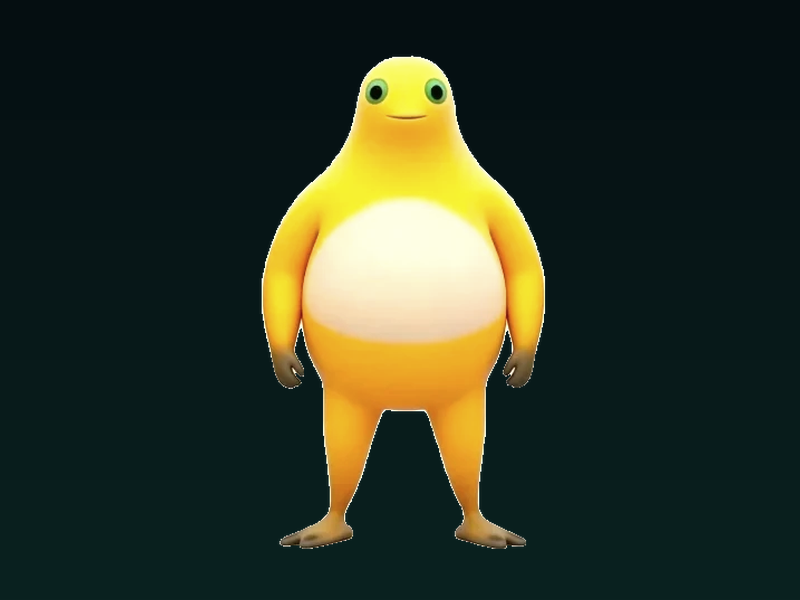
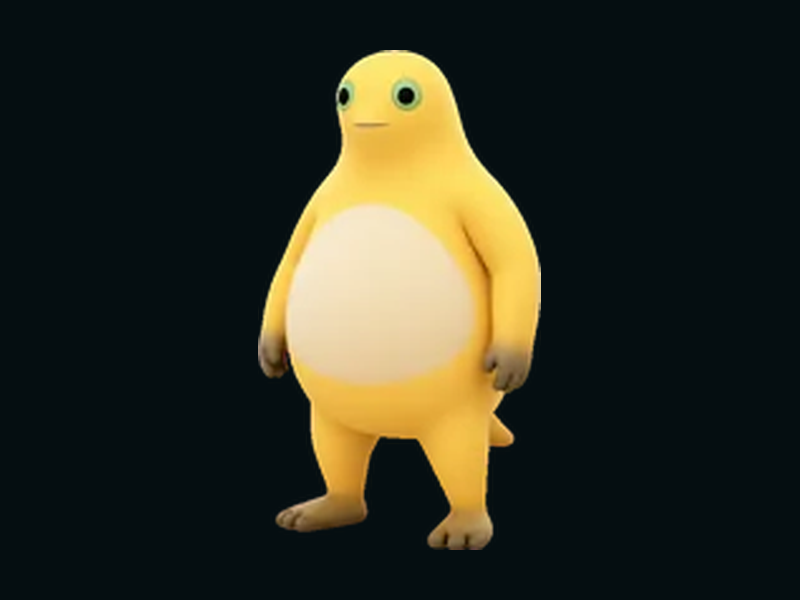
add beckon action and chubby classic idle

Changed region(s): [[0.3125, 0.06, 0.6875, 0.93]]

diff --git a/src/assets/pets/index.ts b/src/assets/pets/index.ts
@@ -23,6 +23,15 @@ const CLASSIC_LAUGH_FRAMES = Object.keys(CLASSIC_LAUGH_MODULES)
   .map((key) => CLASSIC_LAUGH_MODULES[key]);
 const CLASSIC_HAPPY_FRAMES = CLASSIC_LAUGH_FRAMES;
 
+const CLASSIC_IDLE_MODULES = import.meta.glob(
+  "./classic/idle-chubby/*.png",
+  { eager: true, import: "default" },
+) as Record<string, string>;
+
+const CLASSIC_IDLE_FRAMES = Object.keys(CLASSIC_IDLE_MODULES)
+  .sort()
+  .map((key) => CLASSIC_IDLE_MODULES[key]);
+
 const CLASSIC_ACTION_MODULES = import.meta.glob(
   "./classic/actions/*/*.png",
   { eager: true, import: "default" },
@@ -39,10 +48,10 @@ for (const key of Object.keys(CLASSIC_ACTION_MODULES).sort()) {
   );
 }
 
-// The adult action stack is shared by all three art forms. ASCII has no
-// separate action drawings yet, so it reuses the closest existing pose.
-// Never point a left-click action at happy/click: those frames are the laugh,
-// and the laugh must only be reachable through right-click.
+// The adult action stack is shared by all three art forms. Most ASCII actions
+// still reuse the closest existing pose; `beckon` has its own three-frame
+// conversion. Never point a left-click action at happy/click: those frames are
+// the laugh, and the laugh must only be reachable through right-click.
 const ADULT_ASCII_FRAMES: FrameMap = {
   ...CYBER_NAIWA_FRAMES,
   run: CYBER_NAIWA_FRAMES.walk,
@@ -117,7 +126,9 @@ export const PET_SKINS: readonly PetSkin[] = [
     credit:
       "Original Naiwa artwork; adult laugh frames from liaosongjie/Codex-Voice-Input (MIT); action frames from Nailong-Studio/NaiWa-Wallpaper",
     frames: {
-      idle: [adultIdle],
+      idle:
+        CLASSIC_IDLE_FRAMES.length > 0 ? CLASSIC_IDLE_FRAMES : [adultIdle],
+      beckon: CLASSIC_ACTION_FRAMES.beckon ?? [adultIdle],
       walk: CLASSIC_ACTION_FRAMES.walk ?? [adultIdle],
       run: CLASSIC_ACTION_FRAMES.run ?? [adultIdle],
       look: CLASSIC_ACTION_FRAMES.look ?? [adultIdle],
@@ -138,6 +149,8 @@ export const PET_SKINS: readonly PetSkin[] = [
     },
     frameIntervalMs: 164,
     frameIntervalMsByState: {
+      idle: 1200,
+      beckon: 220,
       walk: 140,
       run: 90,
       look: 220,

diff --git a/src/assets/pets/cyber-naiwa/frames.ts b/src/assets/pets/cyber-naiwa/frames.ts
@@ -74,14 +74,15 @@ export function toneForChar(char: string): AsciiTone {
 }
 
 // Adult laugh: 25 frames at 164 ms ≈ 4.10 s, matching the 4.11 s laugh audio.
-// New adult actions use the closest existing ASCII pose but keep their own
-// cadence, so run reads faster than walk and crouch/stance is slower.
+// Most new adult actions reuse the closest existing ASCII pose but keep their
+// own cadence; `beckon` has a dedicated three-frame wave.
 export const FRAME_INTERVAL_MS: Record<PetAnimationState, number> = {
   idle: 1200,
   walk: 260,
   happy: 164,
   click: 164,
   wave: 500,
+  beckon: 350,
   run: 130,
   look: 300,
   think: 350,
@@ -97,6 +98,7 @@ export const BABY_FRAME_INTERVAL_MS: Record<PetAnimationState, number> = {
   happy: 320,
   click: 180,
   wave: 500,
+  beckon: 350,
   run: 260,
   look: 500,
   think: 500,

diff --git a/src/i18n/strings.ts b/src/i18n/strings.ts
@@ -112,6 +112,7 @@ const ZH: UiStrings = {
       happy: "赛博奶蛙，开心",
       click: "赛博奶蛙，被点击",
       wave: "赛博奶蛙，扎马步",
+      beckon: "赛博奶蛙，招手",
       run: "赛博奶蛙，奔跑",
       look: "赛博奶蛙，张望",
       think: "赛博奶蛙，思考",
@@ -189,6 +190,7 @@ const EN: UiStrings = {
       happy: "Cyber Naiwa, happy",
       click: "Cyber Naiwa, clicked",
       wave: "Cyber Naiwa, horse stance",
+      beckon: "Cyber Naiwa, beckoning",
       run: "Cyber Naiwa, running",
       look: "Cyber Naiwa, looking around",
       think: "Cyber Naiwa, thinking",

diff --git a/src/hooks/usePetState.ts b/src/hooks/usePetState.ts
@@ -35,6 +35,7 @@ export const BABY_REACTION_FLOW_MS = CLICK_STATE_MS + BABY_HAPPY_STATE_MS;
 export const ADULT_ACTION_STACK = [
   "idle",
   "wave",
+  "beckon",
   "walk",
   "run",
   "look",
@@ -45,6 +46,7 @@ export const ADULT_ACTION_STACK = [
 
 const ACTION_DURATION_MS: Partial<Record<PetAnimationState, number>> = {
   wave: 2400,
+  beckon: 1800,
   walk: 2200,
   run: 1500,
   look: 1900,

diff --git a/src/types/pet.ts b/src/types/pet.ts
@@ -4,6 +4,7 @@ export const PET_ANIMATION_STATES = [
   "happy",
   "click",
   "wave",
+  "beckon",
   "run",
   "look",
   "think",
@@ -74,6 +75,7 @@ export const PET_STATE_LABELS: Record<PetAnimationState, string> = {
   happy: "HAPPY",
   click: "CLICK",
   wave: "STANCE",
+  beckon: "BECKON",
   run: "RUN",
   look: "LOOK",
   think: "THINK",

diff --git a/DEVELOPMENT.md b/DEVELOPMENT.md
@@ -99,17 +99,17 @@ CyberNaiwa/
 - `usePetState` 持有唯一状态，避免动画互相冲突。
 - `usePetInteraction`：pointerdown 只记录起点；移动 ≥5px 才调用 `startDragging()`，避免原生拖拽吞掉点击；pointerup 且未拖动才算一次点击。
 - 命中判定：ASCII 必须命中 `.pet-ascii [class^="tone-"]:not(.tone-empty)`，图片必须按 alpha 命中（>16）；透明格/透明像素仍是拖动区，但不触发动作、语音或字幕。
-- **成年左键**：`advanceAction()` 沿 `ADULT_ACTION_STACK` 前进：`idle → wave（扎马步）→ walk → run → look → think → clap → crouch → idle`。每档有独立持续时间，动作结束回 idle，但索引保留，所以流程结束后连续点击能走完整套。左键同时 `speak("meme")` 选一条安迪类台词；`Pet.tsx` 用 `flowLock` 锁住整个流程，锁定时常为 `max(actionDuration, voiceDuration) + 50ms`，期间左键/右键一律忽略；只有动作和语音都结束后，下一次点击才进入下一档。`playNaiwaVoice()` 返回本次语音时长，baby 按 1.35× 折算；`eat` 帧保留在素材里，但因其张嘴仰头太像大笑，不接入左键动作栈。
+- **成年左键**：`advanceAction()` 沿 `ADULT_ACTION_STACK` 前进：`idle → wave（扎马步）→ beckon（招手）→ walk → run → look → think → clap → crouch → idle`。每档有独立持续时间，动作结束回 idle，但索引保留，所以流程结束后连续点击能走完整套。左键同时 `speak("meme")` 选一条安迪类台词；`Pet.tsx` 用 `flowLock` 锁住整个流程，锁定时常为 `max(actionDuration, voiceDuration) + 50ms`，期间左键/右键一律忽略；只有动作和语音都结束后，下一次点击才进入下一档。`playNaiwaVoice()` 返回本次语音时长，baby 按 1.35× 折算；`eat` 帧保留在素材里，但因其张嘴仰头太像大笑，不接入左键动作栈。
 - **成年右键**：`interact("laugh")`，`click` 380ms → `happy` 3730ms → `idle`，合计 4.11 秒，和 `naiwa-laugh-long.wav` 对齐；不再打开原生菜单。**大笑只属于右键**，左键动作栈不含 `happy`/`click`。Ctrl/⌘ + 右键打开原生菜单；中键（按下滚轮）打开设置；鼠标悬停在桌宠上时右上角才显示齿轮按钮；托盘入口保留。
 - **幼体左键**：`interact("meme")`，`click` 380ms → `happy` 1100ms → `idle`；没有大笑语音，右键仍是原生菜单。幼体同样使用 `flowLock`（动作 1480ms 与语音时长取最大值），流程中不响应下一次点击；幼体的动作栈与成年完全分开。
-- **空闲自动行为**：成年 idle 9–16 秒后只自动进入 `wave`（扎马步）2.4 秒，再回 idle；walk/run/look/think/clap/crouch 不会自动播放。幼体保持 7–14 秒随机 walk/wave 的独立行为。
+- **空闲自动行为**：成年 idle 9–16 秒后只自动进入 `wave`（扎马步）2.4 秒，再回 idle；beckon/walk/run/look/think/clap/crouch 不会自动播放。幼体保持 7–14 秒随机 walk/wave 的独立行为。
 - 动画关闭时强制回到 idle，并取消进行中的状态定时器；点击仍能切换动作/触发大笑，但只显示静态首帧。
 - `PetAnimation` 只在当前状态内轮播帧，切状态立即重置到第 0 帧；缺少某状态的帧时回退到 `idle`，不会渲染空帧。
-- 成年：Idle / Walk 使用站立正面（第二帧闭眼）；Click / Happy 使用 Codex Voice Input 的 25 帧大笑（手放肚子 → 仰头 → 抱头 → 回落），只由右键触发；Wave 使用官方挥手/扎马步。新动作的经典原画来自 Nailong-Studio 的 `pet/` 逐帧；ASCII 端暂时复用最接近的现有姿态：run=walk、look/think=idle、clap=wave、eat=idle、crouch=wave，**绝不把 clap/eat 指到 happy/click 大笑帧**。
+- 成年：经典 Idle 使用 `classic/idle-chubby/00–02.png` 三帧圆胖待机（`待机-06/01/03`，首帧最正面，1200ms/帧）；Walk 使用同一画风的 Nailong 走路帧；Click / Happy 使用 Codex Voice Input 的 25 帧大笑（手放肚子 → 仰头 → 抱头 → 回落），只由右键触发；Wave（扎马步）使用 `adult-wave.png`，Beckon（招手）使用 `classic/actions/beckon/00–02.png`。新动作的经典原画来自 Nailong-Studio 的 `pet/` 逐帧；ASCII 端 `beckon` 有独立 3 帧，其余新增动作复用最接近的现有姿态：run=walk、look/think=idle、clap=wave、eat=idle、crouch=wave，**绝不把 clap/eat 指到 happy/click 大笑帧**。
 - 幼体：Idle / Walk 使用幼体正面；Happy / Click 使用幼体素材右一叉腰；Wave 使用幼体素材中间抬手。幼体不使用成年大笑、挥手或新动作素材。
 - Sleep 与 Sad 状态均已移除（用户反馈睡觉和伤心界面不好看）；不再生成/播放 sleep 或 sad 帧。
-- ASCII 帧间隔：成年 idle 1200ms、walk 260ms、happy/click 164ms、wave 500ms、run 130ms、look 300ms、think 350ms、clap 160ms、eat 260ms、crouch 500ms；幼体 idle 1200ms、walk 260ms、happy 320ms、click 180ms、wave 500ms。
-- 奶家经典图片帧有独立间隔：walk 140ms、run 90ms、look 220ms、think 260ms、clap 110ms、eat 180ms、crouch 160ms、happy/click 164ms；单帧 idle/wave 不轮播。25×164ms ≈ 4.10s，和 4.11s 音频对齐。
+- ASCII 帧间隔：成年 idle 1200ms、walk 260ms、happy/click 164ms、wave 500ms、beckon 350ms、run 130ms、look 300ms、think 350ms、clap 160ms、eat 260ms、crouch 500ms；幼体 idle 1200ms、walk 260ms、happy 320ms、click 180ms、wave 500ms、beckon 350ms。
+- 奶家经典图片帧有独立间隔：idle 1200ms、beckon 220ms、walk 140ms、run 90ms、look 220ms、think 260ms、clap 110ms、eat 180ms、crouch 160ms、happy/click 164ms；wave 单帧不轮播，idle 3 帧循环。25×164ms ≈ 4.10s，和 4.11s 音频对齐。
 
 ### 点击语音
 
@@ -122,11 +122,11 @@ CyberNaiwa/
 
 ### ASCII 渲染
 
-- 原色赛博帧在 `naiwa-frames.json` / `naiwa-baby-frames.json`：112 列 × 70 行；量子赛博帧在 `naiwa-cyber-frames.json` / `naiwa-cyber-baby-frames.json`：128 列 × 80 行。用 `.` 表示透明格。帧由官方设计资料库的成年 / 幼体 / 大笑 / 挥手参考图逐像素映射到字符 tone；仓库不包含参考图片本身。
+- 原色赛博帧在 `naiwa-frames.json` / `naiwa-baby-frames.json`：112 列 × 70 行；量子赛博帧在 `naiwa-cyber-frames.json` / `naiwa-cyber-baby-frames.json`：128 列 × 80 行。用 `.` 表示透明格。帧由官方设计资料库的成年 / 幼体 / 大笑 / 挥手参考图逐像素映射到字符 tone；仓库不包含参考图片本身。成年 `beckon` 3 帧来自 Nailong-Studio 的 `招手` MIT 素材（和 walk/run 同库），不是官方设计资料库。
 - 幼体挥手源图裁切框从 `X=365/W=270` 改为 `X=310/W=285`：原框正好从 V 字手中间切过，导致手指缺失；新框完整包住中间幼体的抬手，112×70 与 128×80 两套网格都已重新采样。
-- `PetAnimation` 根据 `settings.palette` 选择帧组：`original` 走 `frames` / `babyFrames`，`cyber` 走 `cyberFrames` / `cyberBabyFrames`，`classic` 直接切到图片皮肤 `naiwa-classic`。ASCII JSON 仍只有 5 个基础动作的帧；`index.ts` 把 run/look/think/clap/eat/crouch 映射到最接近的现有姿态（run=walk、look/think=idle、clap=wave、eat=idle、crouch=wave），并让 HUD、语音、时长保持独立。幼体不使用新动作；左键动作栈永远不引用 happy/click。
+- `PetAnimation` 根据 `settings.palette` 选择帧组：`original` 走 `frames` / `babyFrames`，`cyber` 走 `cyberFrames` / `cyberBabyFrames`，`classic` 直接切到图片皮肤 `naiwa-classic`。ASCII JSON 现在有 6 个基础动作的帧（idle/walk/happy/click/wave/beckon）；`index.ts` 把 run/look/think/clap/eat/crouch 映射到最接近的现有姿态（run=walk、look/think=idle、clap=wave、eat=idle、crouch=wave），`beckon` 使用自己的 3 帧，并让 HUD、语音、时长保持独立。幼体不使用新动作；左键动作栈永远不引用 happy/click。
 - 成年 ASCII `wave` 不再从旧的裁切帧补边距，而是从经典 `adult-wave.png` 固定取景重采样：`FixedSide 430`、`CenterX 148`、`CenterY 206`，原色 112×70、量子 128×80 各一套；膝下小腿的 `|` 色调回金色 `%`，脚掌保留棕色 `|`，所以左膝到脚掌是连续轮廓。脚本是 `_qa/convert-naiwa.ps1` 和 `_qa/patch-ascii-wave-knee.py`。
-- 奶家经典图片皮肤：成年 idle 默认用**正面** `adult-idle-aligned.png`（官方正面站立，×1.14 亮度、×0.78 色彩对齐动作帧）；`classic/idle/00–05.png` 是 Nailong 的 3/4 侧身待机备选，会斜着站，不作为默认。wave/扎马步用 `adult-wave.png`，happy/click 用 `laugh-hd/000–024.webp`（524×720，164ms/帧，25×164≈4.10s，对齐 4.11s 音频；来自 1080×1474 原片 6.5–8.75s 抽 25 帧，去白底/地面阴影/胯下白块，3% padding，Lanczos 缩到 720 高，不锐化）；walk/run/look/think/clap/crouch 用 `classic/actions/<state>/` 的逐帧 PNG，`eat` 保留但不接入左键栈。动作帧统一补齐到 180×210 画布、底部对齐到 y=204（6px 底边距），所以脚和膝盖不会被裁。幼体 idle/walk、happy/click、wave 各用一张原画。`laugh/` 保留 180×180 的 MIT 原始帧，`laugh-cropped/` 是紧裁中间帧，`laugh-hires/` 是 648×888 的 6× 回退放大版；当前产品路径是 `laugh-hd`。
+- 奶家经典图片皮肤：成年 idle 默认用 `classic/idle-chubby/00–02.png`（3 帧，来自 Nailong `待机-06/01/03`，180×210、底部 y=204、1200ms/帧，首帧最正面，和走路/跑步同一圆胖画风）；`adult-idle-aligned.png` 保留为高瘦正面备选，`classic/idle/00–05.png` 仍是 3/4 侧身备选。wave/扎马步用 `adult-wave.png`，beckon/招手用 `classic/actions/beckon/00–02.png`（来自 `招手-01/02/04`，220ms/帧），happy/click 用 `laugh-hd/000–024.webp`（524×720，164ms/帧，25×164≈4.10s，对齐 4.11s 音频；来自 1080×1474 原片 6.5–8.75s 抽 25 帧，去白底/地面阴影/胯下白块，3% padding，Lanczos 缩到 720 高，不锐化）；walk/run/look/think/clap/beckon/crouch 用 `classic/actions/<state>/` 的逐帧 PNG，`eat` 保留但不接入左键栈。动作帧统一补齐到 180×210 画布、底部对齐到 y=204（6px 底边距），所以脚和膝盖不会被裁。幼体 idle/walk、happy/click、wave 各用一张原画。`laugh/` 保留 180×180 的 MIT 原始帧，`laugh-cropped/` 是紧裁中间帧，`laugh-hires/` 是 648×888 的 6× 回退放大版；当前产品路径是 `laugh-hd`。
 - HUD 渲染规则：`Pet.tsx` 只在 `settings.palette !== "classic"` 时渲染 `NAIWA//STATE`；原色赛博用暖黄 `rgba(255,216,77,0.62)` + 黄点，量子赛博沿用蓝色 `rgba(126,249,255,0.6)` + 青点，奶家经典不渲染 HUD。设置页不再有「桌宠标签」开关，`hudEnabled` 从 `PetSettings` 移除。
 - 图片尺寸用 `height: 78vh; width: auto`，不是 `max-height`：原图小于窗口时也会放大。图片底部对齐 stage 内容底边，保留 22px 底部 padding；成年待机和动作的角色高约 280px，47 张动作帧的 alpha 最外像素距画布边缘至少 6px，映射到窗口后脚底距底边约 30px。
 - 奶家经典每个动作的帧间隔由 `frameIntervalMsByState` 控制；happy/click 使用 164ms，和 4.11s 大笑音频对齐。
@@ -280,4 +280,5 @@ cargo check --manifest-path src-tauri/Cargo.toml
 - 2026-11-16 remove the adult left-click debounce and slow the adult laugh to 164 ms/frame; extend happy to 3730 ms so click + happy = 4.11 s, matching the laugh WAV; pad the ASCII wave frames by a 2-cell transparent border so the horse-stance knees/feet are not sliced.
 - 2026-11-16 replace per-click interruption with a full-flow lock (user clarified): each adult/baby action holds a `flowLock` for `max(action duration, voice duration) + 50 ms`; clicks during the flow are ignored and the next click only advances after both animation and voice end. `playNaiwaVoice` now returns the actual duration, and `advanceAction` returns the action duration.
 - 2026-11-16 regenerate the adult ASCII `wave` from `classic/adult-wave.png` with a fixed 430 px crop centred at (148,206) for both the 112×70 and 128×80 sets, replacing the 2-cell padding; promote the shadowed shin cells from `|` to `%` and keep `|` on the feet so the left knee/shin read as one continuous leg. Verified both palettes in-app (`_qa/art/ascii-wave-knee-patched-app-dark.png`, `_qa/art/ascii-cyber-wave-knee-patched-app-dark.png`).
+- 2026-11-16 replace the classic idle with the three-frame `idle-chubby` set from the Nailong `待机-06/01/03` art (front-facing first frame, 180×210, 6 px bottom, 1200 ms) and add the adult `beckon` action (three `招手-01/02/04` frames, 220 ms classic / 350 ms ASCII, 1800 ms flow) right after `wave`; generate dedicated 112×70/128×80 beckon grids, restore misread `_` limb pixels to `|`, and keep the action out of the baby stack.
 - 2026-11-16 bump to 0.2.1 and replace `docs/settings.png` with the 赛博奶蛙 settings screenshot (原色模式/量子模式, no sleep copy, version 0.2.1).

diff --git a/README.en.md b/README.en.md
@@ -12,7 +12,7 @@ Cyber Naiwa (赛博奶蛙) is a cross-platform desktop pet built around 奶蛙 (
 - Left-drag to move; adult left-click cycles actions, right-click laughs
 - Middle-click opens Settings; Ctrl/⌘ + right-click opens the native menu
 - Actions and laughs play the matching Naiwa voice line, with a mute switch in Settings
-- Adult actions: stand, horse stance, walk, run, look around, think, clap, crouch
+- Adult actions: stand, horse stance, beckon, walk, run, look around, think, clap, crouch
 - Three forms: Original Cyber / Quantum Cyber (ASCII) and Naiwa Classic (original artwork)
 - Adult and baby Naiwa, with warm Original or blue-black Quantum colourways
 - Chinese app UI; English documentation in `README.en.md`
@@ -50,9 +50,9 @@ Naiwa Classic uses the original artwork with no ASCII conversion:
 
 | Mode | Options |
 | --- | --- |
-| Growth stage | Adult (tall pear) / Baby (short, round, big-headed, tiny limbs) |
+| Growth stage | Adult (chubby, short-legged) / Baby (short, round, big-headed, tiny limbs) |
 | Form | Original Cyber (warm yellow + cream + olive, 112×70) / Quantum Cyber (blue-black + cyan terminal, 128×80) / Naiwa Classic (original artwork, transparent background) |
-| Actions | Adult: stand, horse stance, walk, run, look around, think, clap, crouch; baby: idle, walk, happy, raise-hand — the two stacks are separate |
+| Actions | Adult: stand, horse stance, beckon, walk, run, look around, think, clap, crouch; baby: idle, walk, happy, raise-hand — the two stacks are separate |
 
 Baby preview:
 
@@ -137,9 +137,9 @@ Two keys live in that file: `settings` (always-on-top, scale, animation, sound, 
 
 ## Character art
 
-The default `cyber-naiwa` skin stores Original Cyber adult/baby frames in `naiwa-frames.json` and `naiwa-baby-frames.json` (112×70), and Quantum Cyber adult/baby frames in `naiwa-cyber-frames.json` and `naiwa-cyber-baby-frames.json` (128×80). Each set covers five base poses; adult happy/click use 25 frames each, other base states use two, and the baby uses two per state. The extra adult actions (run/look/think/clap/eat/crouch) are registered in `index.ts` as aliases of the closest base pose, with their own HUD labels, timing and durations. The adult wave grids are resampled from `classic/adult-wave.png` with a fixed 430 px crop centred at (148,206) for both 112×70 and 128×80, so the knees and feet no longer touch the grid edge; the shadowed shins are promoted from `|` to `%` while the feet stay brown, keeping the left knee-to-foot silhouette continuous. `frames.ts` maps characters to colour tones and declares frame timing. The 25 adult laugh frames come from [liaosongjie/Codex-Voice-Input](https://github.com/liaosongjie/Codex-Voice-Input)'s MIT animation frames (fixed-crop conversion to ASCII); the other grids were pixel-mapped from the official design database's adult, juvenile, laugh, and wave references. No ASCII reference image files themselves are shipped in the repo. The app icon is taken from the baby's Original Cyber ASCII idle frame instead of being drawn separately.
+The default `cyber-naiwa` skin stores Original Cyber adult/baby frames in `naiwa-frames.json` and `naiwa-baby-frames.json` (112×70), and Quantum Cyber adult/baby frames in `naiwa-cyber-frames.json` and `naiwa-cyber-baby-frames.json` (128×80). Each set covers six base poses (idle/walk/happy/click/wave/beckon); adult happy/click use 25 frames each, wave uses two, beckon uses three, and the baby uses two per state. The extra adult actions (run/look/think/clap/eat/crouch) are registered in `index.ts` as aliases of the closest base pose; beckon has its own three-frame conversion. Both keep their own HUD labels, timing and durations. The adult wave grids are resampled from `classic/adult-wave.png` with a fixed 430 px crop centred at (148,206) for both 112×70 and 128×80, so the knees and feet no longer touch the grid edge; the shadowed shins are promoted from `|` to `%` while the feet stay brown, keeping the left knee-to-foot silhouette continuous. Beckon is converted from the Nailong `招手-01/02/04` art with a fixed 230 px crop centred at (63,99) for both grids; warm hand/foot pixels misread as the mouth tone are restored to `|`. `frames.ts` maps characters to colour tones and declares frame timing. The 25 adult laugh frames come from [liaosongjie/Codex-Voice-Input](https://github.com/liaosongjie/Codex-Voice-Input)'s MIT animation frames (fixed-crop conversion to ASCII); the other base grids were pixel-mapped from the official design database's adult, juvenile, laugh, and wave references; the beckon grids come from the Nailong-Studio MIT `招手` frames. No ASCII reference image files themselves are shipped in the repo. The app icon is taken from the baby's Original Cyber ASCII idle frame instead of being drawn separately.
 
-The `naiwa-classic` skin lives in `src/assets/pets/classic/`: adult idle defaults to the **front-facing** `adult-idle-aligned.png` (official front standing art, ×1.14 brightness and ×0.78 colour to match the action frames' luminance/saturation), with the legs and feet fully inside the window. The Nailong `classic/idle/00–05.png` frames are a 3/4 side-facing alternative and are not the default standing pose. Adult wave and all three baby states are transparent cut-outs of the official design reference sheets; the baby crops were widened so hands, feet, and knees keep a 14 px inner margin; adult happy/click uses `classic/laugh-hd/000–024.webp`, extracted from the 1080×1474 `naiwa-laugh.mp4` at 6.5–8.75 s. The 25 frames have their white background, floor shadow, and white crotch gap removed, keep 3% padding, and are Lanczos-downscaled to 524×720 with no sharpening at 164 ms each (25 × 164 ms ≈ 4.10 s, matching the 4.11 s laugh audio). `classic/laugh/` keeps the original 180×180 MIT frames and `classic/laugh-hires/` keeps the 648×888 6× upscale fallback. The video source has no explicit redistribution licence in `SOURCES.md`; the project owner approved its fan-use inclusion, and the skin can switch back to `laugh-hires` if needed. Action frames use `classic/actions/<action>/` padded to 180×210 with a 6 px bottom margin; the eating frames stay in the library but are not wired to left-click because the open-mouth pose reads as a laugh. Images scale to the window height so the body stays about 280 px and the feet stay visible. The cut-out/upscale scripts are `_qa/make-classic-cutouts.ps1`, `_qa/make-baby-cutouts.py`, `_qa/crop-classic-laugh.ps1`, `_qa/upscale-classic-laugh.py`, `_qa/build-hd-laugh.py`, `_qa/build-classic-actions.py`, and `_qa/build-classic-idle.py` (`_qa/` is not committed). This is fan-made, non-commercial use; source and licence notes are in `_qa/reference/official/laugh/SOURCES.md`.
+The `naiwa-classic` skin lives in `src/assets/pets/classic/`: adult idle defaults to `classic/idle-chubby/00–02.png` (three frames from the Nailong `待机-06/01/03` art, 180×210 with a 6 px bottom margin, 1200 ms per frame; frame 00 is the most front-facing and the set matches the walk/run art style). `adult-idle-aligned.png` remains the tall front fallback, and `classic/idle/00–05.png` keeps the 3/4 side-facing alternative. Adult wave and all three baby states are transparent cut-outs of the official design reference sheets; the baby crops were widened so hands, feet, and knees keep a 14 px inner margin; adult happy/click uses `classic/laugh-hd/000–024.webp`, extracted from the 1080×1474 `naiwa-laugh.mp4` at 6.5–8.75 s. The 25 frames have their white background, floor shadow, and white crotch gap removed, keep 3% padding, and are Lanczos-downscaled to 524×720 with no sharpening at 164 ms each (25 × 164 ms ≈ 4.10 s, matching the 4.11 s laugh audio). `classic/laugh/` keeps the original 180×180 MIT frames and `classic/laugh-hires/` keeps the 648×888 6× upscale fallback. The video source has no explicit redistribution licence in `SOURCES.md`; the project owner approved its fan-use inclusion, and the skin can switch back to `laugh-hires` if needed. Action frames use `classic/actions/<action>/` padded to 180×210 with a 6 px bottom margin; the eating frames stay in the library but are not wired to left-click because the open-mouth pose reads as a laugh. The new beckon action uses `classic/actions/beckon/00–02.png` from `招手-01/02/04` at 220 ms per frame. Images scale to the window height so the body stays about 280 px and the feet stay visible. The cut-out/upscale scripts are `_qa/make-classic-cutouts.ps1`, `_qa/make-baby-cutouts.py`, `_qa/crop-classic-laugh.ps1`, `_qa/upscale-classic-laugh.py`, `_qa/build-hd-laugh.py`, `_qa/build-classic-actions.py`, `_qa/build-classic-idle.py`, `_qa/build-classic-idle-beckon.py`, and `_qa/insert-ascii-beckon.py` (`_qa/` is not committed). This is fan-made, non-commercial use; source and licence notes are in `_qa/reference/official/laugh/SOURCES.md`.
 
 Want to try a PNG/WEBP/GIF skin? `src/assets/pets/README.md` shows how to register an `ImagePetSkin`. The renderer already handles both ASCII and image sequences. Please only add art you have the right to redistribute.
 
@@ -175,7 +175,7 @@ The six clips come from the `音效/` directory of [VIPmrgj/Dragon-frog](https:/
 Interaction:
 
 - **Adult start**: stands idle. Every 9–16 seconds it may briefly shift into the horse stance, then stand again.
-- **Adult left-click**: advances one action: stand → horse stance → walk → run → look around → think → clap → crouch → stand, and plays a random 安迪 / 嘎嘎提拉瞎 / 干巴得 / 哦啦 / 噶韭菜 line. Once an action flow starts, clicks are ignored until both the animation and its voice line finish; the next click then advances.
+- **Adult left-click**: advances one action: stand → horse stance → beckon → walk → run → look around → think → clap → crouch → stand, and plays a random 安迪 / 嘎嘎提拉瞎 / 干巴得 / 哦啦 / 噶韭菜 line. Once an action flow starts, clicks are ignored until both the animation and its voice line finish; the next click then advances.
 - **Adult right-click**: plays the laugh and the full 4.11 s laugh animation; it no longer opens the menu. **The laugh is right-click only** — the left-click stack never contains `happy`/`click` and never summons the laugh-like eating pose either.
 - **Top-right gear**: the gear only appears while the mouse is hovering over the pet window; it opens Settings and hides again when the pointer leaves.
 - **Adult middle-click**: press the scroll wheel to open Settings (trackpads without a middle button can use the gear or tray).
@@ -183,7 +183,7 @@ Interaction:
 - **Tray**: still shows/hides the pet, opens Settings, and quits.
 - **Baby**: keeps a separate stack with no laugh clip; left-click plays one meme line and the happy reaction, right-click still opens the native menu.
 - With sound off, the same line is shown as a subtitle instead.
-- Every other adult action is click-only and never plays automatically. In Original/Quantum ASCII, clap reuses the horse-stance frames — never the laugh frames. The eating frames stay in the asset library but are not wired to the left-click stack because the open-mouth head-back pose reads as a laugh.
+- Every other adult action is click-only and never plays automatically. In Original/Quantum ASCII, clap reuses the horse-stance frames — never the laugh frames — and beckon has its own three-frame conversion. The eating frames stay in the asset library but are not wired to the left-click stack because the open-mouth head-back pose reads as a laugh.
 
 Line research and the older 1.8 s MIT laugh:
 

diff --git a/README.md b/README.md
@@ -12,7 +12,7 @@
 - 左键拖动；成年左键切换动作，右键大笑；中键打开设置
 - Ctrl/⌘ + 右键打开原生菜单（设置 / 隐藏 / 退出）
 - 切换动作或大笑时播放对应奶蛙语音，设置里可以静音
-- 成年动作：站立、扎马步、走、跑、张望、思考、鼓掌、蹲伏
+- 成年动作：站立、扎马步、招手、走、跑、张望、思考、鼓掌、蹲伏
 - 三种形态：原色赛博 / 量子赛博（ASCII）、奶家经典（原画）
 - 成年奶蛙 / 幼体奶蛙，原色赛博暖黄 / 量子赛博蓝黑两套配色
 - 应用界面中文；英文说明保留在 `README.en.md`
@@ -50,9 +50,9 @@
 
 | 模式 | 选项 |
 | --- | --- |
-| 成长阶段 | 成年（修长梨形）/ 幼体（短圆大头、短手脚） |
+| 成长阶段 | 成年（圆胖、短腿）/ 幼体（短圆大头、短手脚） |
 | 形态 | 原色赛博（暖黄 + 奶油 + 橄榄褐，112×70）/ 量子赛博（蓝黑 + 青色终端，128×80）/ 奶家经典（原画，透明背景） |
-| 动作 | 成年：站立、扎马步、走、跑、张望、思考、鼓掌、蹲伏；幼体：待机、走、开心、抬手，动作栈与成年分开 |
+| 动作 | 成年：站立、扎马步、招手、走、跑、张望、思考、鼓掌、蹲伏；幼体：待机、走、开心、抬手，动作栈与成年分开 |
 
 幼体单独预览：
 
@@ -137,9 +137,9 @@ pnpm tauri build --bundles dmg
 
 ## 角色素材
 
-默认 ASCII 角色 `cyber-naiwa` 的原色赛博成年帧在 `src/assets/pets/cyber-naiwa/naiwa-frames.json`，幼体帧在 `naiwa-baby-frames.json`（112×70）；量子赛博成年/幼体帧在 `naiwa-cyber-frames.json`、`naiwa-cyber-baby-frames.json`（128×80）。现有帧覆盖 idle / walk / happy / click / wave；成年 happy/click 各 25 帧，其余状态每态 2 帧；幼体每态 2 帧。新增的 run / look / think / clap / eat / crouch 在 `src/assets/pets/index.ts` 复用最接近的现有 ASCII 姿态，但保留独立 HUD 标签、帧间隔和动作时长。成年 wave 帧从 `classic/adult-wave.png` 用固定取景 `FixedSide 430`、中心 `(148,206)` 重采样到 112×70/128×80，膝盖、脚不再贴网格边；膝下小腿的 `|` 色调回金色 `%`，脚掌保留棕色，所以左膝到脚掌是连续轮廓。字符 tone、帧间隔和渲染逻辑在 `frames.ts`。成年大笑的 25 帧来自 [liaosongjie/Codex-Voice-Input](https://github.com/liaosongjie/Codex-Voice-Input) 的 MIT 动画帧（固定取景后转成 ASCII）；其余帧由官方设计资料库中的成年 / 幼体 / 大笑 / 挥手参考图逐像素映射生成，ASCII 帧的参考图片本身不入库。应用图标取自幼体原色赛博 ASCII 待机帧，不再单独绘制。
+默认 ASCII 角色 `cyber-naiwa` 的原色赛博成年帧在 `src/assets/pets/cyber-naiwa/naiwa-frames.json`，幼体帧在 `naiwa-baby-frames.json`（112×70）；量子赛博成年/幼体帧在 `naiwa-cyber-frames.json`、`naiwa-cyber-baby-frames.json`（128×80）。现有帧覆盖 idle / walk / happy / click / wave / beckon；成年 happy/click 各 25 帧，wave 2 帧，beckon 3 帧，其余状态每态 2 帧；幼体每态 2 帧。新增的 run / look / think / clap / eat / crouch 在 `src/assets/pets/index.ts` 复用最接近的现有 ASCII 姿态，`beckon` 则有独立的 3 帧招手帧，二者都保留独立 HUD 标签、帧间隔和动作时长。成年 wave 帧从 `classic/adult-wave.png` 用固定取景 `FixedSide 430`、中心 `(148,206)` 重采样到 112×70/128×80，膝盖、脚不再贴网格边；膝下小腿的 `|` 色调回金色 `%`，脚掌保留棕色，所以左膝到脚掌是连续轮廓。招手帧从 Nailong 的 `招手-01/02/04` 原画用 `FixedSide 230`、中心 `(63,99)` 转成 112×70/128×80，脚部误判的 `_` 已改回 `|`。字符 tone、帧间隔和渲染逻辑在 `frames.ts`。成年大笑的 25 帧来自 [liaosongjie/Codex-Voice-Input](https://github.com/liaosongjie/Codex-Voice-Input) 的 MIT 动画帧（固定取景后转成 ASCII）；其余基础帧由官方设计资料库中的成年 / 幼体 / 大笑 / 挥手参考图逐像素映射生成，招手 3 帧来自 Nailong-Studio 的 MIT `招手` 素材；ASCII 帧的参考图片本身不入库。应用图标取自幼体原色赛博 ASCII 待机帧，不再单独绘制。
 
-奶家经典皮肤 `naiwa-classic` 在 `src/assets/pets/classic/`：成年待机默认使用**正面** `adult-idle-aligned.png`（官方正面站立，×1.14 亮度、×0.78 色彩，向动作帧的明度/饱和度对齐），脚和腿完整落在窗口内。Nailong 的 `classic/idle/00–05.png` 是 3/4 侧身待机备选，画面会斜着站，所以不作为默认站立。成年挥手和幼体三态是官方设计参考图的透明抠图；幼体三态已重新放宽裁切，手、脚、膝盖都有 14px 内边距；成年 happy/click 使用 `classic/laugh-hd/000–024.webp`，从 1080×1474 的 `naiwa-laugh.mp4` 6.5–8.75 秒抽 25 帧，去掉白底、地面阴影和胯下白块，统一留 3% 边距后 Lanczos 缩到 524×720，不做锐化，164ms/帧，和 4.11 秒大笑音频对齐。`classic/laugh/` 保留原始 180×180 MIT 帧，`classic/laugh-hires/` 保留 648×888 的 6× 放大回退版；视频源的再分发许可记录不完整，已按项目所有者确认作为粉丝二创使用，必要时可切回 `laugh-hires`。走、跑、张望、思考、鼓掌、蹲伏使用 `classic/actions/<action>/` 的逐帧原画，来自 Nailong-Studio 的 MIT 素材，统一补齐到 180×210 画布、底部留 6px，所以脚和膝盖不会被窗口裁掉；`进食` 帧保留在素材里，但因为张嘴仰头太像大笑，暂不接入左键动作栈。图片按窗口高度缩放，成年待机和动作的身体高度约 280px。抠图/放大/补帧脚本是 `_qa/make-classic-cutouts.ps1`、`_qa/make-baby-cutouts.py`、`_qa/crop-classic-laugh.ps1`、`_qa/upscale-classic-laugh.py`、`_qa/build-hd-laugh.py`、`_qa/build-classic-actions.py` 和 `_qa/build-classic-idle.py`（`_qa/` 不入库）。这部分是粉丝二创非商业使用，来源与授权说明见 `_qa/reference/official/laugh/SOURCES.md`。
+奶家经典皮肤 `naiwa-classic` 在 `src/assets/pets/classic/`：成年待机默认使用 `classic/idle-chubby/00–02.png`（3 帧，180×210，底部留 6px，1200ms/帧，来自 Nailong `待机-06/01/03` 的圆胖全身原画，首帧最正面），和走路/跑步同一画风；`adult-idle-aligned.png` 保留为高瘦正面备选，Nailong 的 `classic/idle/00–05.png` 仍是 3/4 侧身备选。成年扎马步（wave）和幼体三态是官方设计参考图的透明抠图；幼体三态已重新放宽裁切，手、脚、膝盖都有 14px 内边距；成年 happy/click 使用 `classic/laugh-hd/000–024.webp`，从 1080×1474 的 `naiwa-laugh.mp4` 6.5–8.75 秒抽 25 帧，去掉白底、地面阴影和胯下白块，统一留 3% 边距后 Lanczos 缩到 524×720，不做锐化，164ms/帧，和 4.11 秒大笑音频对齐。`classic/laugh/` 保留原始 180×180 MIT 帧，`classic/laugh-hires/` 保留 648×888 的 6× 放大回退版；视频源的再分发许可记录不完整，已按项目所有者确认作为粉丝二创使用，必要时可切回 `laugh-hires`。走、跑、张望、思考、鼓掌、招手、蹲伏使用 `classic/actions/<action>/` 的逐帧原画，来自 Nailong-Studio 的 MIT 素材，统一补齐到 180×210 画布、底部留 6px，所以脚和膝盖不会被窗口裁掉；招手（beckon）3 帧来自 `招手-01/02/04`，220ms/帧；`进食` 帧保留在素材里，但因为张嘴仰头太像大笑，暂不接入左键动作栈。图片按窗口高度缩放，成年待机和动作的身体高度约 280px。抠图/放大/补帧脚本是 `_qa/make-classic-cutouts.ps1`、`_qa/make-baby-cutouts.py`、`_qa/crop-classic-laugh.ps1`、`_qa/upscale-classic-laugh.py`、`_qa/build-hd-laugh.py`、`_qa/build-classic-actions.py`、`_qa/build-classic-idle.py`、`_qa/build-classic-idle-beckon.py` 和 `_qa/insert-ascii-beckon.py`（`_qa/` 不入库）。这部分是粉丝二创非商业使用，来源与授权说明见 `_qa/reference/official/laugh/SOURCES.md`。
 
 想换成 PNG/WEBP/GIF 皮肤时，按 `src/assets/pets/README.md` 的说明注册 `ImagePetSkin` 即可，渲染器同时支持 ASCII 和图片序列。请不要提交没有 redistribution 权限的素材。
 
@@ -165,7 +165,7 @@ pnpm tauri build --bundles dmg
 交互规则：
 
 - **成年初始**：站立待机；空闲 9–16 秒会偶尔自动切到扎马步，然后回到站立。
-- **成年左键**：按动作栈前进一档：站立 → 扎马步 → 走 → 跑 → 张望 → 思考 → 鼓掌 → 蹲伏 → 站立，并随机播一条安迪 / 嘎嘎提拉瞎 / 干巴得 / 哦啦 / 噶韭菜。点进一个动作流程后，必须等动作和语音都完全结束，下一次点击才会进入下一档；流程中的点击会被忽略。
+- **成年左键**：按动作栈前进一档：站立 → 扎马步 → 招手 → 走 → 跑 → 张望 → 思考 → 鼓掌 → 蹲伏 → 站立，并随机播一条安迪 / 嘎嘎提拉瞎 / 干巴得 / 哦啦 / 噶韭菜。点进一个动作流程后，必须等动作和语音都完全结束，下一次点击才会进入下一档；流程中的点击会被忽略。
 - **成年右键**：播「哈哈哈哈哈」并完整播放大笑，不再弹出菜单。**大笑只属于右键**，左键动作栈不含 `happy`/`click`，也不会召唤出像大笑的“进食”张嘴仰头姿势。
 - **右上角齿轮**：只有鼠标悬停在桌宠窗口上时，右上角才显示半透明齿轮；点它打开设置。移开鼠标后齿轮隐藏。
 - **成年中键**：按下鼠标滚轮打开设置（笔记本触控板没有中键时用齿轮或托盘）。

diff --git a/src/assets/pets/README.md b/src/assets/pets/README.md
@@ -12,25 +12,29 @@ characters to colour tones and declares frame timing. The grids use printable
 ASCII only and were pixel-mapped from official reference images; those ASCII
 reference images are not shipped in this repository.
 
-The JSON still covers the five original poses. `index.ts` aliases the newer
-adult states to the closest existing pose: run→walk, look/think→idle,
+The JSON now covers six base poses: idle/walk/happy/click/wave/beckon. `beckon`
+has its own three-frame 112×70/128×80 conversion; `index.ts` aliases the other
+newer adult states to the closest existing pose: run→walk, look/think→idle,
 clap→wave, eat→idle, crouch→wave. The laugh (`happy`/`click`) is deliberately
 never used by a left-click action. The HUD label, frame interval and action
 duration still come from the real state, and the baby never uses these aliases.
 Adult `wave` is regenerated from `classic/adult-wave.png` with a fixed 430 px
 crop centred at (148,206), not by padding the old cut frames. The shadowed
 shins use `%` (shade gold) and only the feet keep the brown `|` tone, so the
-left knee and shin read as one continuous leg at 112×70 and 128×80.
+left knee and shin read as one continuous leg at 112×70 and 128×80. Adult
+`beckon` is converted from the Nailong `招手-01/02/04` art with a fixed 230 px
+crop centred at (63,99); warm hand/foot pixels misread as the mouth tone are
+restored to `|`.
 
 ## Classic skin
 
 `naiwa-classic` is an `ImagePetSkin` using the cut-out original artwork in
-`classic/`: adult idle defaults to the front-facing
-`adult-idle-aligned.png` (the original tall front pose with ×1.14 brightness /
-×0.78 colour to match the action frames). `classic/idle/00`–`05.png` keeps the
-Nailong 3/4 side-facing idle frames as an alternative, but they are not the
-default because the character stands diagonally. Wave and baby idle/happy/wave
-remain single cut-out PNGs; the three baby images were re-cropped from the
+`classic/`: adult idle defaults to `classic/idle-chubby/00`–`02.png` (three
+frames from the Nailong `待机-06/01/03` art, 180×210 with a 6 px bottom margin,
+1200 ms per frame; frame 00 is the most front-facing and matches the walk/run
+art style). `adult-idle-aligned.png` remains the tall front fallback, and
+`classic/idle/00`–`05.png` keeps the 3/4 side-facing alternative. Wave and baby
+idle/happy/wave remain single cut-out PNGs; the three baby images were re-cropped from the
 official juvenile sheet with a 14 px inner margin so hands, feet, and knees are
 not sliced. The
 adult happy/click sequence is `classic/laugh-hd/000`–`024.webp` at 164 ms per
@@ -39,14 +43,15 @@ the 1080×1474 `naiwa-laugh.mp4` at 6.5–8.75 s, with the
 white background, floor shadow, and white crotch gap removed, 3% padding and
 Lanczos downscale to 524×720, no sharpening. `classic/laugh-hires/` keeps the
 648×888 6× MIT upscale fallback and `classic/laugh-cropped/` keeps the tight
-108×148 crop. `adult-idle-aligned.png` is now only a fallback/reference: the old
-tall cut-out with ×1.09 brightness and ×0.80 colour; `adult-idle.png` keeps the
+108×148 crop. `adult-idle-aligned.png` is now only a fallback/reference: the
+tall cut-out with ×1.14 brightness and ×0.78 colour; `adult-idle.png` keeps the
 unmodified cut-out.
 
-Adult walk/run/look/think/clap/crouch live in `classic/actions/<state>/`.
+Adult walk/run/look/think/clap/beckon/crouch live in `classic/actions/<state>/`.
 They come from the Nailong-Studio `pet/` MIT frame sequences, padded to a
 180×210 canvas and bottom-aligned to y=204 (6 px bottom margin), so feet and
-knees stay visible. The `eat` frames stay in the library but are not wired to
+knees stay visible. Beckon uses the three `招手-01/02/04` frames at 220 ms per
+frame. The `eat` frames stay in the library but are not wired to
 the left-click stack: the open-mouth head-back pose reads as a laugh. Use
 `frameIntervalMsByState` for per-action cadence; the global `frameIntervalMs`
 remains the laugh interval. Image skins may declare a separate `babyFrames`

diff --git a/design-qa.md b/design-qa.md
@@ -259,6 +259,14 @@
 - 实机截图：`_qa/art/ascii-wave-knee-patched-app-dark.png`、`_qa/art/ascii-cyber-wave-knee-patched-app-dark.png`；两套都确认左膝、左脚完整，HUD 仍为 STANCE。
 - `pnpm build` 通过。
 
+## 2026-11-16 — Phase 32：圆胖站立与新增招手动作
+
+- 用户要求多找成年动作，并让站立奶蛙更像动作原画里的圆胖奶蛙。检查 `_qa/reference/actions` 发现一组未接入的 `待机-01/03/06` 全身帧和 `招手-01/02/04` 3 帧，和 walk/run 是同一套 Nailong 圆胖 3D 画风。
+- 经典 idle 改为 `classic/idle-chubby/00–02.png`：从 `待机-06/01/03` 生成 3 帧，180×210、底部 y=204（6px 底边距），1200ms/帧；首帧用最正面的 `待机-06`。`adult-idle-aligned.png` 保留为高瘦正面回退，`classic/idle/00–05.png` 仍是 3/4 备选。之前“3/4 待机不能当默认”的结论只针对 `classic/idle` 那组；这组 `待机` 首帧是正面，且和动作帧同画风。
+- 新增成年 `beckon`（招手）状态：经典帧 `classic/actions/beckon/00–02.png` 来自 `招手-01/02/04`，220ms/帧；动作时长 1800ms；动作栈插在 `wave` 后：`idle → wave → beckon → walk → ...`；HUD `BECKON`，ARIA 中英同步。ASCII 两套用 `FixedSide 230`、中心 `(63,99)` 生成 3 帧 112×70/128×80，350ms/帧；转 ASCII 时脚/手误判的 `_` 已改回 `|`。幼体不使用。
+- 实测：经典 idle 首帧 `idle-chubby/00.png` 正面圆胖；经典 `beckon` 第 1 帧 `actions/beckon/01.png` 抬手；原色/量子 ASCII `beckon` 都显示抬手，HUD `NAIWA//BECKON`；流程锁实测 `wave → beckon`，招手 300ms 内再点仍是 `beckon`，1.9s 后下一档才到 `walk`。
+- 动作原画仍来自 Nailong-Studio 的 MIT 素材；没有引入新的外部授权来源。`pnpm build` 通过。
+
 ## 待人工确认
 
 - 托盘菜单的物理点击仍需在桌面通知区实际点一遍；窗口 show/hide/设置/退出逻辑已实现。
